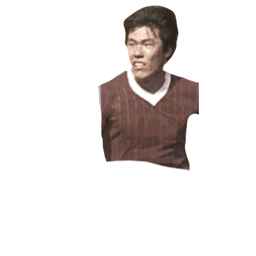
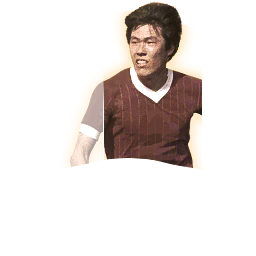
FCMSquad

Changed region(s): [[0.25, 0.0, 0.8125, 0.6875], [0.5938, 0.5, 0.625, 0.5312]]

diff --git a/fcmsquad/resources/faceData.js b/fcmsquad/resources/faceData.js
@@ -11650,7 +11650,9 @@ const faceData = [
     {
         "idx": 1521,
         "pid": "201995",
-        "images": []
+        "images": [
+            "./resources/players/players_23/p201995_UCL24_LIVE.png"
+        ]
     },
     {
         "idx": 1564,
